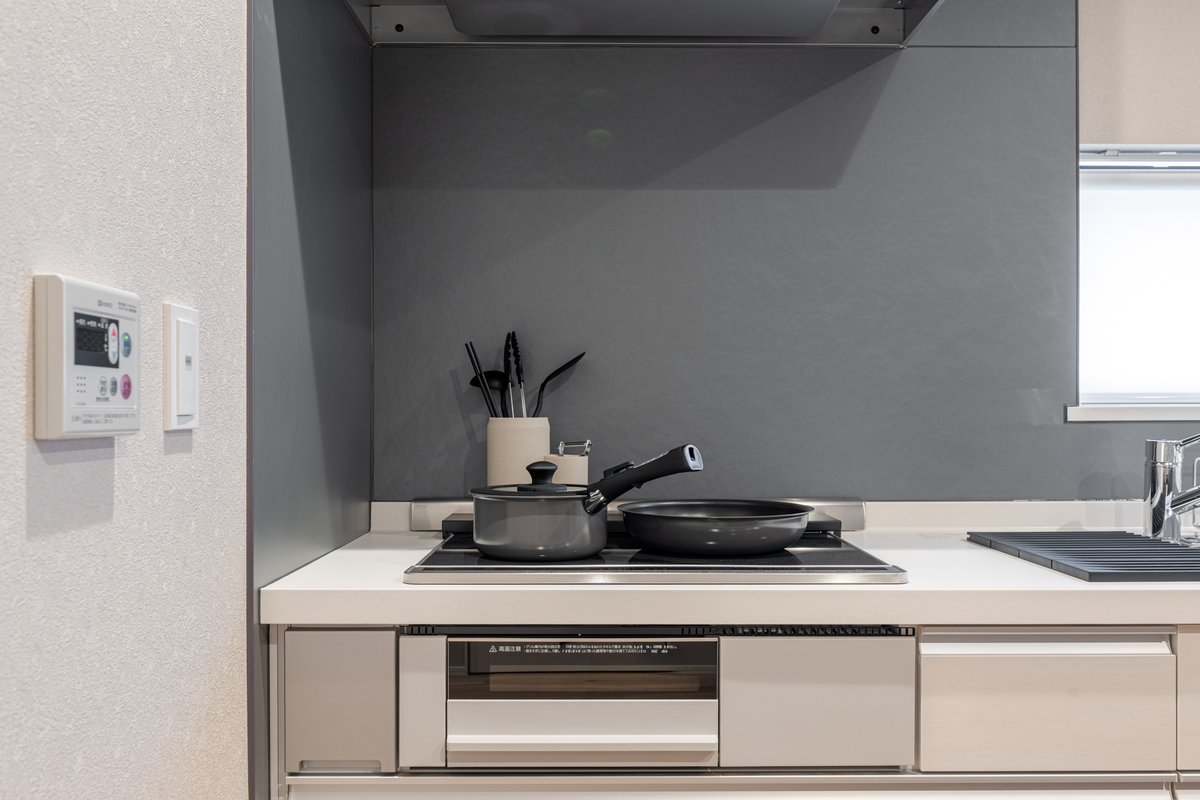
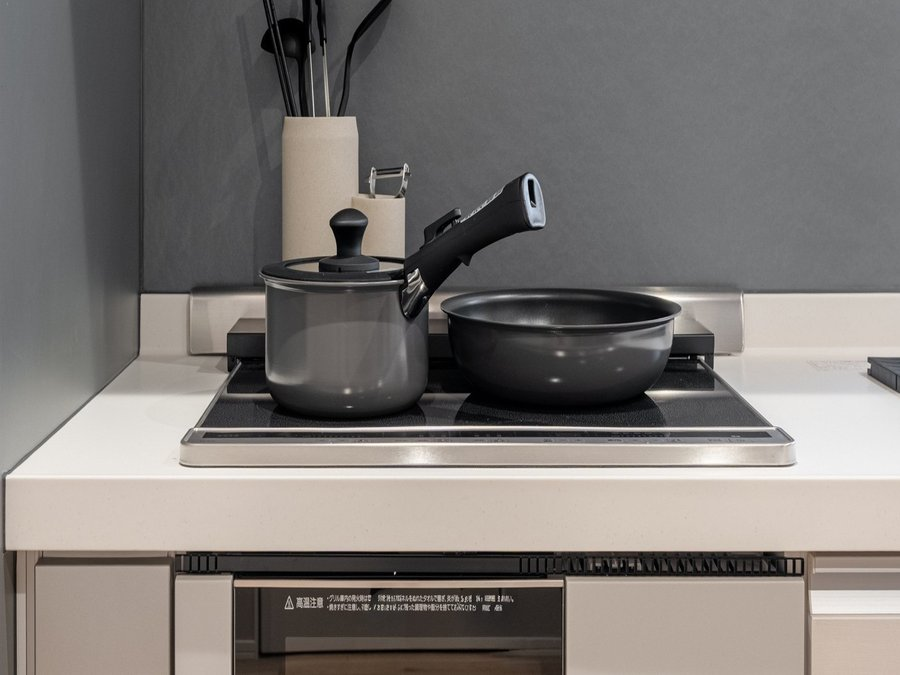
fix: amenities layout 4-col grid and 2-col text list

diff --git a/assets/css/style.css b/assets/css/style.css
@@ -575,10 +575,11 @@ body {
 #amenities .eyebrow     { margin-bottom: clamp(12px,1.6vh,20px); }
 #amenities .sec-heading { margin-bottom: clamp(32px,4vh,56px); }
 
+/* 上段：4列横一列 */
 .amenity__grid {
   display: grid;
-  grid-template-columns: 1fr 1fr;
-  gap: clamp(16px,2vw,32px);
+  grid-template-columns: repeat(4, 1fr);
+  gap: clamp(12px,1.5vw,24px);
   margin-bottom: clamp(40px,5vh,64px);
 }
 .amenity__item {
@@ -605,12 +606,14 @@ body {
 }
 .amenity__caption {
   font-family: var(--ja);
-  font-size: clamp(11px,.85vw,13px);
+  font-size: clamp(12px, 1vw, 15px);
+  font-weight: 500;
   letter-spacing: .06em;
-  opacity: .7;
+  opacity: .8;
   line-height: 1.6;
 }
 
+/* 下段：テキストリスト（2列） */
 .amenity__list {
   border-top: 1px solid rgba(134,91,57,.15);
   padding-top: clamp(24px,3vh,40px);
@@ -625,22 +628,24 @@ body {
 }
 .amenity__list__cats {
   display: grid;
-  grid-template-columns: repeat(4, 1fr);
-  gap: clamp(16px,2vw,32px);
+  grid-template-columns: repeat(2, 1fr);
+  gap: clamp(20px,2.5vh,36px) clamp(40px,5vw,80px);
 }
 .amenity__list__cat-name {
   font-family: var(--en);
-  font-size: clamp(10px,.85vw,12px);
+  font-size: clamp(11px,.9vw,13px);
+  font-weight: 700;
   letter-spacing: .25em;
   text-transform: uppercase;
-  opacity: .5;
-  margin-bottom: 8px;
+  opacity: .55;
+  margin-bottom: 10px;
 }
 .amenity__list__items {
   font-family: var(--ja);
-  font-size: clamp(11px,.85vw,13px);
+  font-size: clamp(12px,.95vw,14px);
+  font-weight: 400;
   line-height: 2;
-  opacity: .75;
+  opacity: .8;
   letter-spacing: .04em;
 }
 